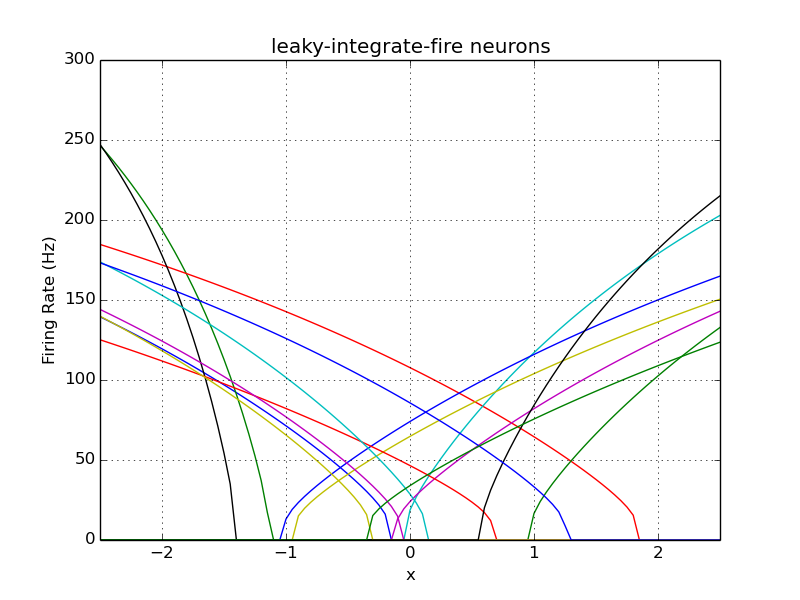
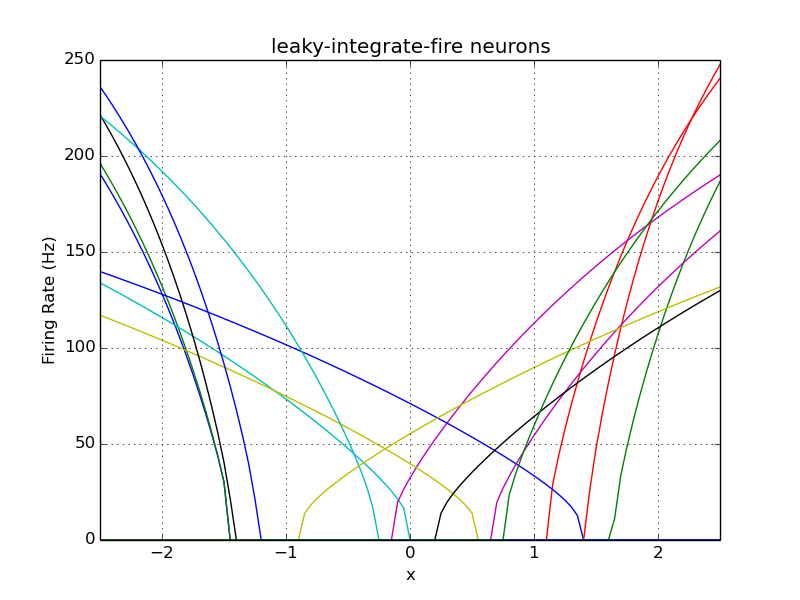
point of no return

diff --git a/SYDE750_ass3/q6.py b/SYDE750_ass3/q6.py
@@ -2,7 +2,7 @@ import numpy as np
 import ipdb
 import matplotlib.pyplot as plt
 
-from utils import whitenoise, ptsc, generate_ensemble, spike_and_filter, lif_ensemble_2d
+from utils import whitenoise, ptsc, generate_ensemble, spike_and_filter, lif_ensemble_2d, modified_lif
 
 def gen_rand_uc_vecs(dims, number):
 	vecs = np.random.normal(size=(number,dims))
@@ -18,28 +18,48 @@ def get_2d_decoders(A, S, x_vals):
 	decoders_0 = np.dot(np.linalg.pinv(gamma), upsilon_0)
 	decoders_1 = np.dot(np.linalg.pinv(gamma), upsilon_1)
 	# Which I can just add up again to get the approximate value
-	x_hat = np.dot(A.T, decoders_0) + np.dot(A.T, decoders_1)
 	decoders = np.array([decoders_0, decoders_1])
+	x_hat = np.dot(A.T, decoders.T)
 	return decoders, x_hat
 
-def get_ens_dec_2d(n_neurons, x_vals, h, decode_func=None):
-	ensemble = generate_ensemble(n_neurons, ensemble_type=lif_ensemble_2d, encoders=gen_rand_uc_vecs(2,n_neurons))
-	A = spike_and_filter(ensemble, x_vals.T, h)
+def get_ens_dec_2d(n_neurons, x_vals, h, decode_func=None, plot_res=False):
+	max_firing_rates = np.random.uniform(100, 200, n_neurons)
+	x_cepts = np.random.uniform(-2, 2, n_neurons)
+	encoders = gen_rand_uc_vecs(2,n_neurons)
+	
+	lifs = []
+	A = np.zeros( (n_neurons, x_vals[0].size) )
+	for i in range(n_neurons):
+		lifs.append(
+			modified_lif(
+				x_cepts[i],
+				max_firing_rates[i]
+			)
+		)
+		# get the activities for the decoders
+		for i_x, x in enumerate(x_vals.T):
+			A[i,i_x] = lifs[i](np.dot(x, encoders[i]))
+
+	ensemble = lif_ensemble_2d(lifs, encoders)
+
+	A_noisy = A.T + np.random.normal(scale=0.2*200, size=A.T.shape)
 	if(decode_func == None):
-		decoders, x_hat = get_2d_decoders(A.T, A.shape[0], x_vals)
-		fig = plt.figure()
-		plt.plot(x_vals.T, label="actual")
-		plt.plot(x_hat, label="approx")
-		plt.legend()
-		plt.savefig("decode_test")
+		decoders, x_hat = get_2d_decoders(A_noisy.T, A_noisy.shape[1], x_vals)
+		if(plot_res):
+			print("Plotting")
+			fig = plt.figure()
+			plt.plot(x_vals.T, label="actual")
+			plt.plot(x_hat, label="approx")
+			plt.legend()
+			plt.savefig("decode_test")
 	else:
-		decoders, _ = get_2d_decoders(A.T, A.shape[0], decode_func(x_vals))
-	return ensemble, decoders
+		decoders, _ = get_2d_decoders(A_noisy.T, A_noisy.shape[1], decode_func(x_vals))
+	return ensemble, decoders/dt
 
 # lesson learned, think about higher dimensions before writing code
 # the encoder multiplication should have been taken out of the spiking code
 
-n_neurons = 400
+n_neurons = 200
 
 dt = 0.001
 t_range = np.arange(0, 1, dt)
@@ -50,13 +70,11 @@ a = np.linspace(-2.0,2.0,100)
 b = np.linspace(-2.0,2.0,100)
 X,Y = np.meshgrid(a, b)
 x_vals = np.array([X.reshape((1,-1))[0], Y.reshape((1,-1))[0]])
+#x_vals=np.array([a, -b])
 
-# So the way we train our ensemble is pretty weird and I don't understand it.
+#w_ensemble, w_decoders = get_ens_dec_2d(n_neurons, x_vals, h, decode_func=None, plot_res=True)
+x_ensemble, x_decoders = get_ens_dec_2d(n_neurons, x_vals, h, decode_func=None, plot_res=True)
 
-#w_ensemble, w_decoders = get_ens_dec_2d(n_neurons, x_vals, h)
-print("generating x_ensemble")
-# why the hell is this so slow?
-x_ensemble, x_decoders = get_ens_dec_2d(n_neurons, x_vals, h)
 """
 y_decode_func = lambda y: -3 * y
 y_ensemble, y_decoders = get_ens_dec_2d(n_neurons, x_vals, h, y_decode_func)
@@ -68,10 +86,8 @@ z_ensemble, z_decoders = get_ens_dec_2d(n_neurons, x_vals, h, z_decode_func)
 
 # simulate each of them
 print("simulating")
-#x_input_func = lambda t: np.array([[0.5, 1],]*t.size)
-def x_input_func(t):
-	return np.array([np.array([0.5]*t.size), np.sin(3*np.pi*t)]).T
-
+x_input_func = lambda t: np.array([[0.5, 1],]*t.size)
+#x_input_func = lambda t: np.array([np.array([0.5]*t.size), np.sin(3*np.pi*t)]).T
 A = spike_and_filter(x_ensemble, x_input_func(t_range), h)
 x_hat = np.dot(A, x_decoders.T)
 
@@ -79,23 +95,45 @@ fig = plt.figure()
 plt.plot(x_input_func(t_range), label="x actual")
 plt.plot(x_hat, label="x approx")
 plt.legend()
-plt.savefig("2d_test")
-ipdb.set_trace()
+plt.savefig("x_2d_test")
 
 """
-y_input_func = lambda t: np.array([0.1, 0.3])
-z_input_func = lambda t: np.array([0.2, 0.1])
-q_input_func = lambda t: np.array([0.4, -0.2])
+y_input_func = lambda t: np.array([[0.1, 0.3],]*t.size)
+A = spike_and_filter(y_ensemble, y_input_func(t_range), h)
+y_hat = np.dot(A, y_decoders.T)
 
-# okay, how do I make an iterator from this exactly?
-# either I need iter_shape or op_axes
-# I'll use SO for this
+fig = plt.figure()
+plt.plot(y_decode_func(y_input_func(t_range)), label="y actual")
+plt.plot(y_hat, label="y approx")
+plt.legend()
+plt.savefig("y_2d_test_1")
+
+z_input_func = lambda t: np.array([[0.2, 0.1],]*t.size)
+A = spike_and_filter(z_ensemble, z_input_func(t_range), h)
+z_hat = np.dot(A, z_decoders.T)
+
+fig = plt.figure()
+plt.plot(z_decode_func(z_input_func(t_range)), label="z actual")
+plt.plot(z_hat, label="z approx")
+plt.legend()
+plt.savefig("z_2d_test")
+
+q_input_func = lambda t: np.array([[0.4, -0.2],]*t.size)
+A = spike_and_filter(q_ensemble, q_input_func(t_range), h)
+q_hat = np.dot(A, q_decoders.T)
+
+fig = plt.figure()
+plt.plot(q_decode_func(q_input_func(t_range)), label="q actual")
+plt.plot(q_hat, label="q approx")
+plt.legend()
+plt.savefig("q_2d_test_1")
+
 A = spike_and_filter(w_ensemble, (x_hat+y_hat+z_hat+q_hat), h)
-w_hat = np.dot(A, w_decoders[0]) + np.dot(A, w_decoders[1])
+w_hat = np.dot(A, w_decoders.T)
 
 fig = plt.figure()
 plt.plot(
-	x_decode_func(x_input_func(t_range)) + 
+	x_input_func(t_range) + 
 	y_decode_func(y_input_func(t_range)) +
 	q_decode_func(q_input_func(t_range)) +
 	z_decode_func(z_input_func(t_range)),
@@ -103,4 +141,38 @@ label="w actual")
 plt.plot(w_hat, label="w approx")
 plt.legend()
 plt.savefig("6_a")
+
+y_input_func = lambda t: np.array([np.sin(4*np.pi*t), np.array([0.3]*t.size)]).T
+A = spike_and_filter(y_ensemble, y_input_func(t_range), h)
+y_hat = np.dot(A, y_decoders.T)
+
+fig = plt.figure()
+plt.plot(y_decode_func(y_input_func(t_range)), label="y actual")
+plt.plot(y_hat, label="y approx")
+plt.legend()
+plt.savefig("y_2d_test_2")
+
+q_input_func = lambda t: np.array([np.sin(4*np.pi*t), np.array([-0.2]*t.size)]).T
+A = spike_and_filter(q_ensemble, q_input_func(t_range), h)
+q_hat = np.dot(A, q_decoders.T)
+
+fig = plt.figure()
+plt.plot(q_decode_func(q_input_func(t_range)), label="q actual")
+plt.plot(q_hat, label="q approx")
+plt.legend()
+plt.savefig("q_2d_test_2")
+
+A = spike_and_filter(w_ensemble, (x_hat+y_hat+z_hat+q_hat), h)
+w_hat = np.dot(A, w_decoders.T)
+
+fig = plt.figure()
+plt.plot(
+	x_input_func(t_range) + 
+	y_decode_func(y_input_func(t_range)) +
+	q_decode_func(q_input_func(t_range)) +
+	z_decode_func(z_input_func(t_range)),
+label="w actual")
+plt.plot(w_hat, label="w approx")
+plt.legend()
+plt.savefig("6_b")
 """

diff --git a/SYDE750_ass3/utils.py b/SYDE750_ass3/utils.py
@@ -56,7 +56,7 @@ def modified_lif(x0_fire, max_fire, t_ref=0.002, t_rc=0.02, radius=2.0):
 	def lif_current(x):
 		J = x * alpha + J_bias
 		if(J > 1):
-			return J
+			return 1.0/(t_ref-t_rc*np.log(1-1/J))
 		else:
 			return 0.0
 
@@ -233,6 +233,7 @@ def generate_ensemble(n_neurons, ensemble_type=lif_ensemble, encoders=None):
 				max_firing_rates[i]
 			)
 		)
+	# okay, this needs to return the lifs...
 	return ensemble_type(lifs, gain_signs)
 
 def spike_and_filter(ensemble, input_list, h):

diff --git a/SYDE750_ass3/q1.py b/SYDE750_ass3/q1.py
@@ -29,7 +29,7 @@ plt.xlim([-2.5,2.5])
 fig.savefig("1_1a")
 
 # do noisy generation and decoding
-A_noisy = A.T + np.random.normal(scale=0.2*200, size=A.T.shape)
+A_noisy = A.T + np.random.normal(scale=0.1*200, size=A.T.shape)
 decoders_noisy, x_hat_noisy = get_decoders(A_noisy.T, S, x_vals)
 
 plot_xhat(x_vals, x_hat_noisy, "noisy neurons, noisy decoders", "1_1b")

diff --git a/SYDE750_ass3/q4.py b/SYDE750_ass3/q4.py
@@ -60,7 +60,7 @@ def input_func(t_range, steps=4):
 		return_vals.append(y_vals[t/increment])
 	return np.array(return_vals)
 
-input_sig = input_func(t_range)
+input_sig = input_func(t_range, steps=10)
 
 A = spike_and_filter(ensemble, input_sig.tolist(), h)
 
